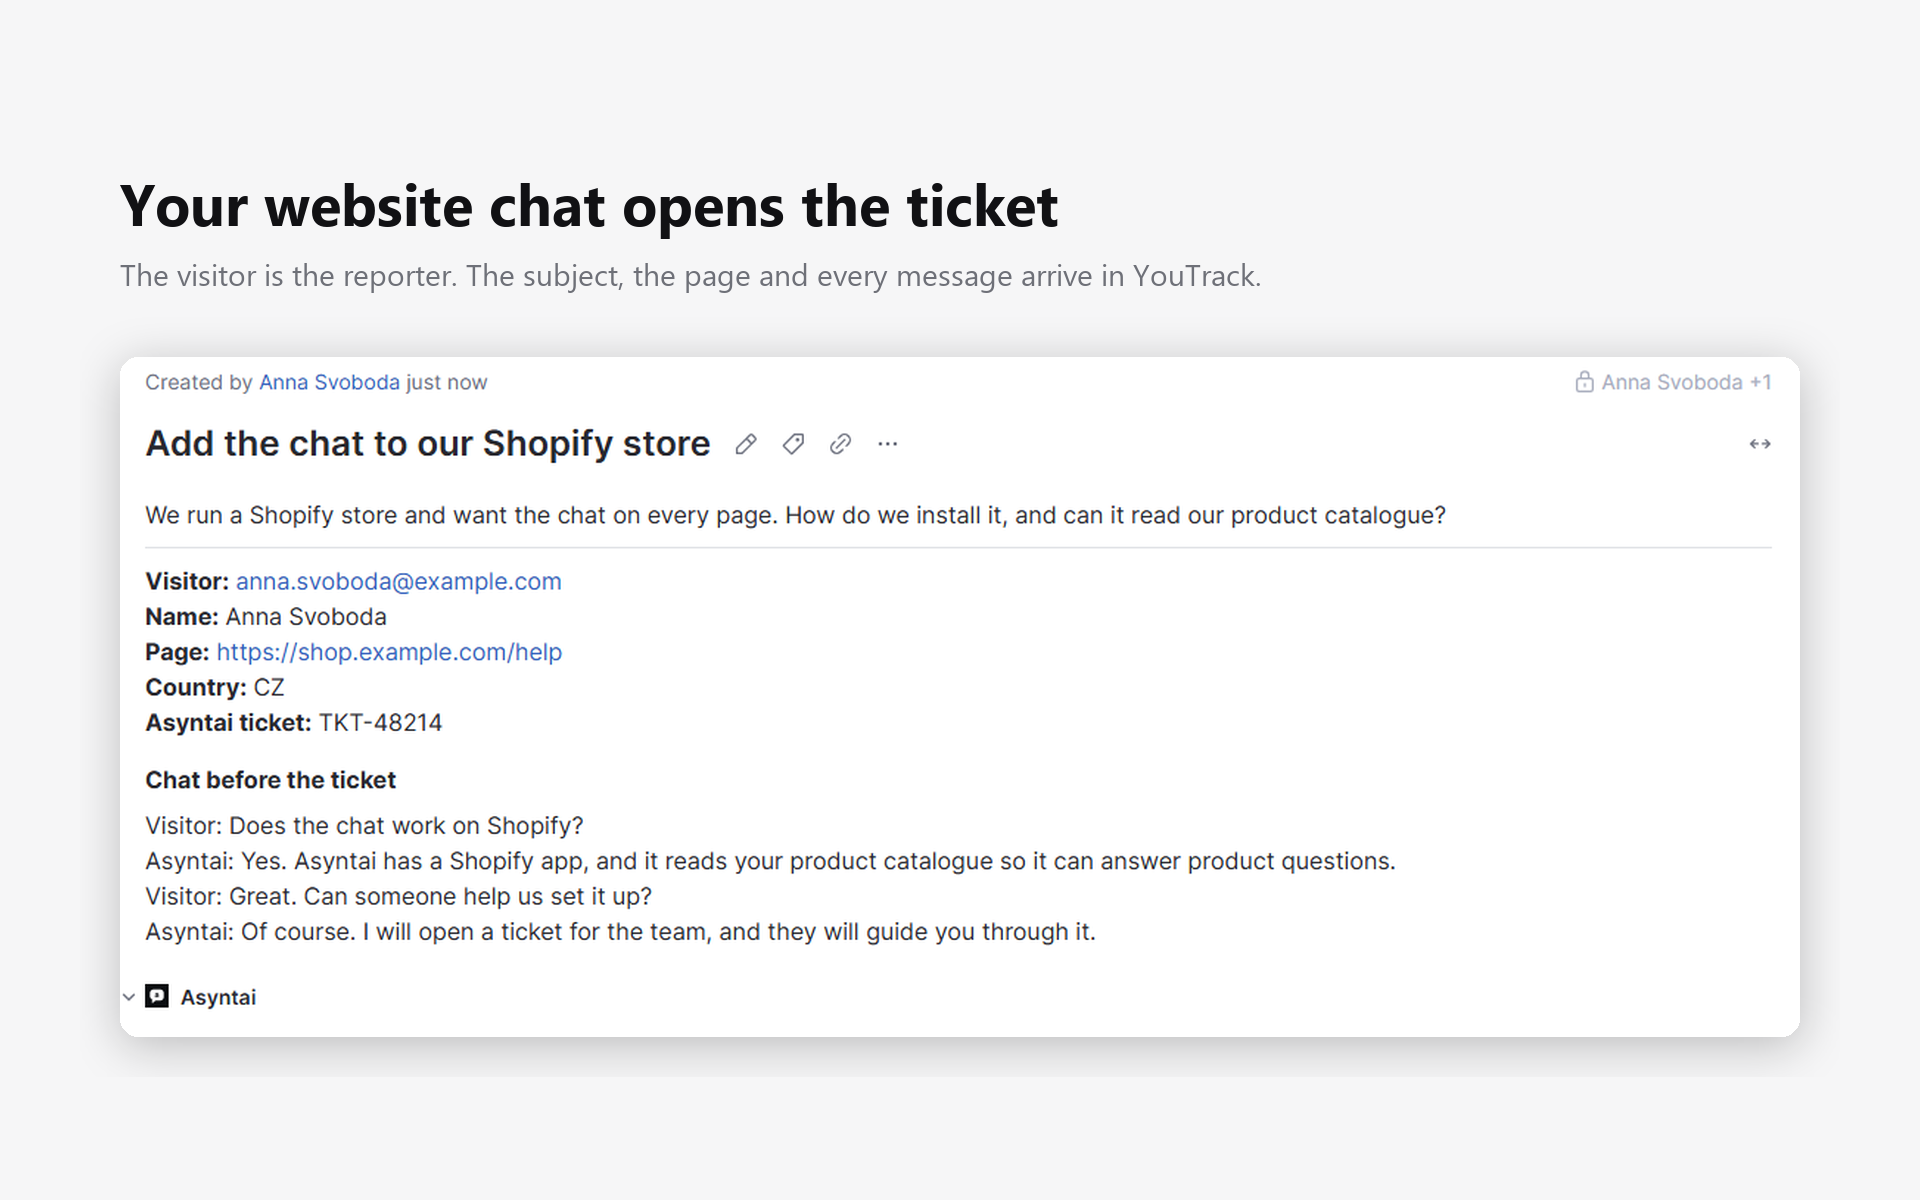
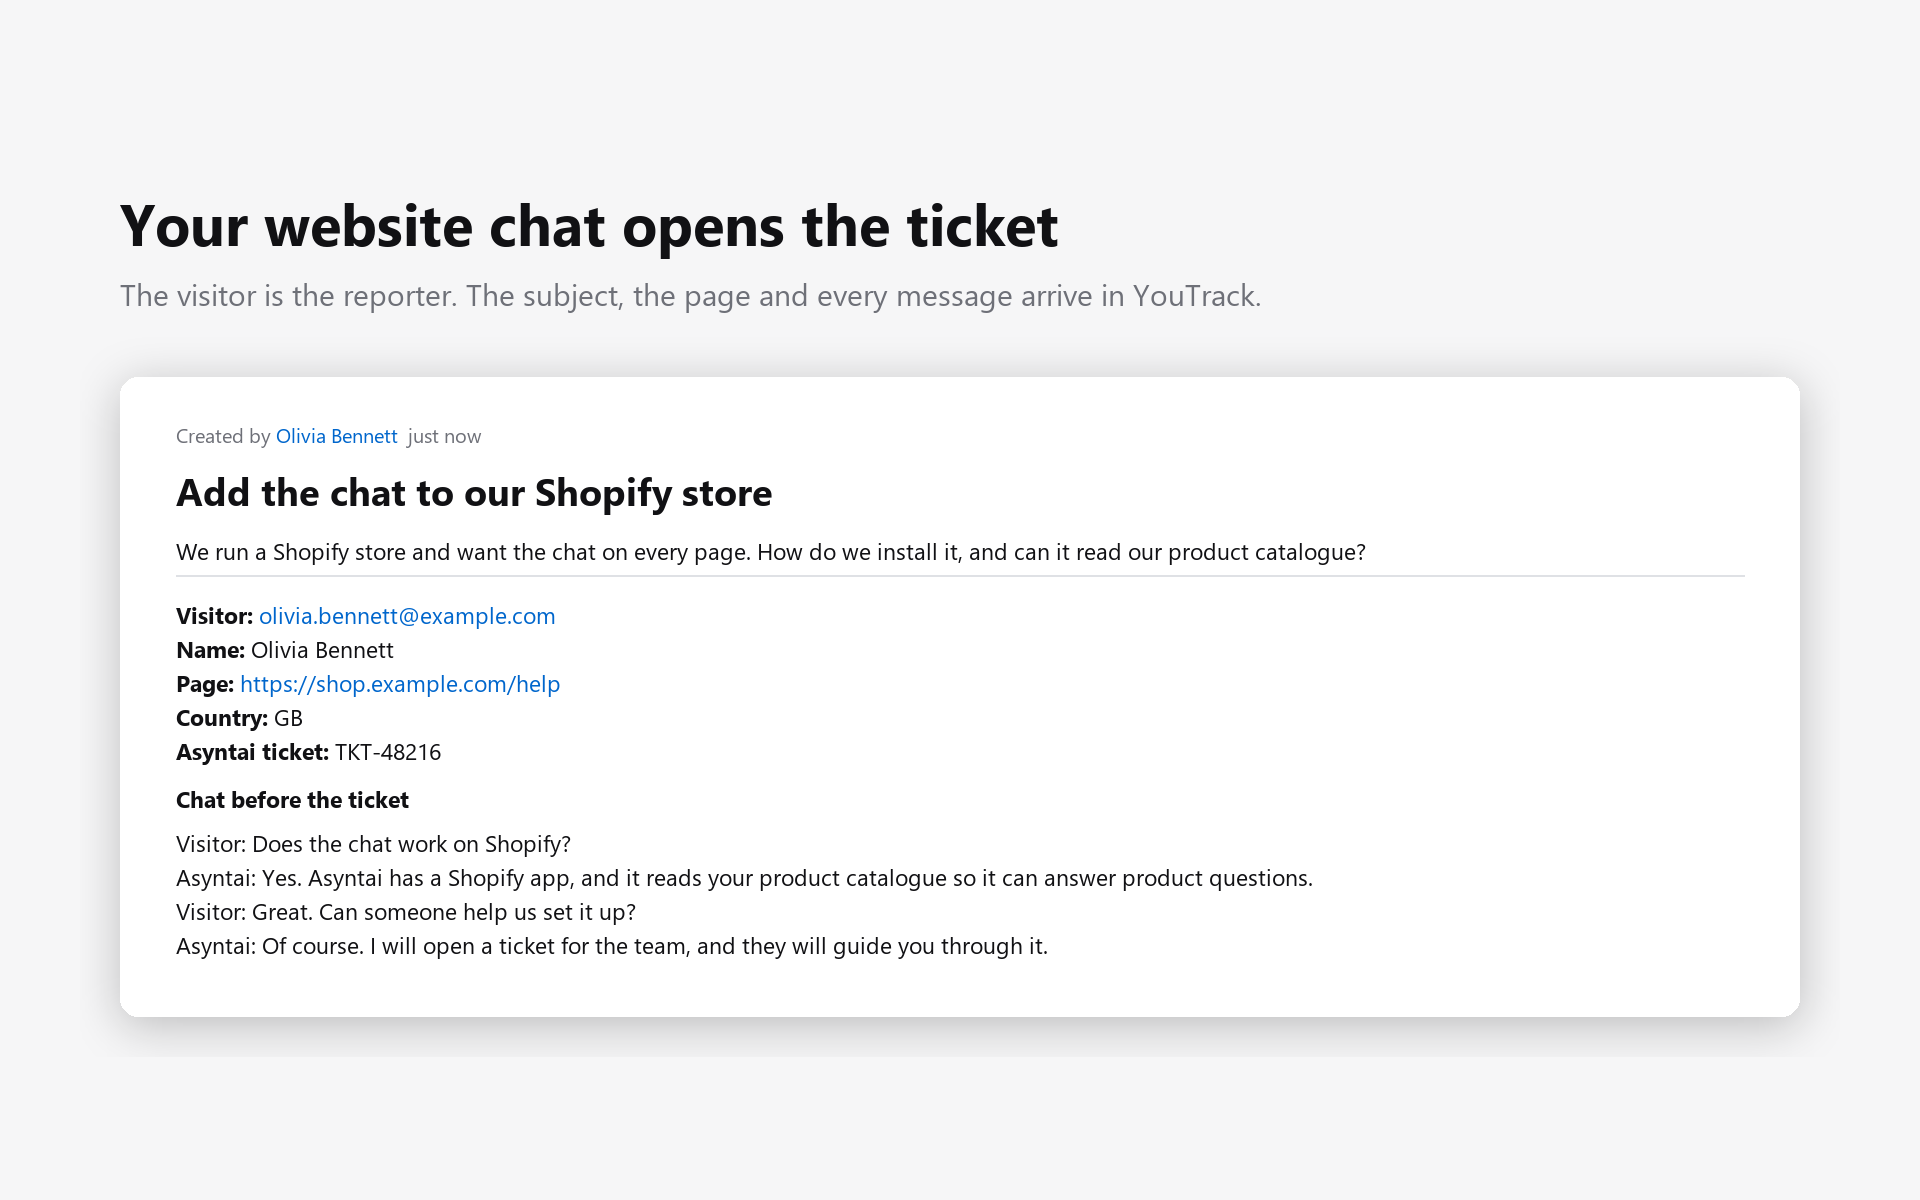
1.0.1: render Markdown in chats and drafts, dates in the YouTrack language

Changed region(s): [[0.0625, 0.3083, 0.9375, 0.8633], [0.0625, 0.1542, 0.6562, 0.2775]]

diff --git a/src/widgets/asyntai-chats/app.tsx b/src/widgets/asyntai-chats/app.tsx
@@ -3,6 +3,8 @@ import Button from '@jetbrains/ring-ui-built/components/button/button';
 import Loader from '@jetbrains/ring-ui-built/components/loader/loader';
 import Text from '@jetbrains/ring-ui-built/components/text/text';
 
+import Markdown from './markdown';
+
 const host = await YTApp.register();
 
 interface Message {
@@ -46,18 +48,31 @@ function messageKey(sessionId: string, message: Message, index: number): string 
   return [sessionId, index, message.role, message.timestamp ?? '', message.content.slice(0, KEY_TEXT_CHARS)].join('|');
 }
 
+/**
+ * The YouTrack user's language, which YouTrack passes to the widget frame as
+ * "#locale=xx". The browser's own language is not the same thing: an English
+ * YouTrack in a Czech browser must still print English dates.
+ */
+function uiLocale(): string | undefined {
+  const locale = new URLSearchParams(window.location.hash.replace(/^#/, '')).get('locale');
+  return locale || undefined;
+}
+
 function formatDate(value: string): string {
   if (!value) {
     return '';
   }
   const parsed = new Date(value);
-  return isNaN(parsed.getTime()) ? '' : parsed.toLocaleString();
+  if (isNaN(parsed.getTime())) {
+    return '';
+  }
+  return parsed.toLocaleString(uiLocale(), {dateStyle: 'medium', timeStyle: 'short'});
 }
 
 const DraftPanel: React.FunctionComponent<{draft: string}> = ({draft}) => (
   <div className="asyntai-draft">
     <div className="asyntai-draft-head">{'Suggested reply'}</div>
-    <div className="asyntai-draft-body">{draft}</div>
+    <div className="asyntai-draft-body"><Markdown text={draft}/></div>
     <div className="asyntai-draft-foot">
       {'Read it before you send it. Your AI agent wrote it from your website and your knowledge base.'}
     </div>
@@ -85,7 +100,7 @@ const ChatRow: React.FunctionComponent<{
             <span className="asyntai-who">
               {message.role === 'user' ? 'Visitor' : 'Asyntai'}
             </span>
-            <span className="asyntai-text">{message.content}</span>
+            <span className="asyntai-text"><Markdown text={message.content}/></span>
           </div>
         ))}
       </div>

diff --git a/src/widgets/asyntai-chats/markdown.tsx b/src/widgets/asyntai-chats/markdown.tsx
@@ -1,0 +1,59 @@
+import React, {type ReactNode} from 'react';
+
+/**
+ * Asyntai replies use a little Markdown: **bold**, [links](https://...),
+ * and "* item" or "- item" lists. This turns that into React elements, so
+ * the agent reads the reply the way the visitor saw it in the chat. No HTML
+ * is ever injected, so nothing from a chat can run in YouTrack.
+ */
+
+const INLINE = /(\*\*[^*]+\*\*|\[[^\]]+\]\(https?:\/\/[^\s)]+\))/g;
+const BOLD = /^\*\*(.+)\*\*$/;
+const LINK_TEXT = 1;
+const LINK_URL = 2;
+const LINK = /^\[([^\]]+)\]\((https?:\/\/[^\s)]+)\)$/;
+const BULLET = /^\s*[*-]\s+/;
+
+// Keys: a chat message never changes once written, so a position-based key
+// is stable for the life of the element.
+function inline(text: string, keyPrefix: string): ReactNode[] {
+  return text.split(INLINE).filter(Boolean).map((part, index) => {
+    const key = `${keyPrefix}-${index}`;
+    const bold = BOLD.exec(part);
+    if (bold) {
+      return <strong key={key}>{bold[1]}</strong>;
+    }
+    const link = LINK.exec(part);
+    if (link) {
+      return <a key={key} href={link[LINK_URL]} target="_blank" rel="noreferrer">{link[LINK_TEXT]}</a>;
+    }
+    return part;
+  });
+}
+
+export default function Markdown({text}: {text: string}) {
+  const blocks: ReactNode[] = [];
+  let list: ReactNode[] = [];
+
+  const flushList = () => {
+    if (list.length) {
+      blocks.push(<ul key={`ul-${blocks.length}`} className="asyntai-md-list">{list}</ul>);
+      list = [];
+    }
+  };
+
+  text.split('\n').forEach((line, index) => {
+    if (BULLET.test(line)) {
+      // eslint-disable-next-line react/no-array-index-key
+      list.push(<li key={`li-${index}`}>{inline(line.replace(BULLET, ''), `l${index}`)}</li>);
+      return;
+    }
+    flushList();
+    if (line.trim()) {
+      // eslint-disable-next-line react/no-array-index-key
+      blocks.push(<p key={`p-${index}`} className="asyntai-md-p">{inline(line, `p${index}`)}</p>);
+    }
+  });
+  flushList();
+  return <div className="asyntai-md">{blocks}</div>;
+}

diff --git a/src/widgets/asyntai-chats/app.css b/src/widgets/asyntai-chats/app.css
@@ -29,8 +29,21 @@
 
 .asyntai-draft-body {
   padding: calc(var(--ring-unit) * 1.5);
-  white-space: pre-wrap;
   line-height: 1.6;
+}
+
+/* Rendered Markdown: paragraphs and lists keep the spacing of the chat. */
+.asyntai-md-p {
+  margin: 0 0 var(--ring-unit);
+}
+
+.asyntai-md-p:last-child {
+  margin-bottom: 0;
+}
+
+.asyntai-md-list {
+  margin: 0 0 var(--ring-unit);
+  padding-left: calc(var(--ring-unit) * 2.5);
 }
 
 .asyntai-draft-foot {
